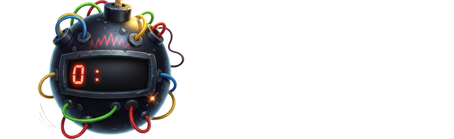
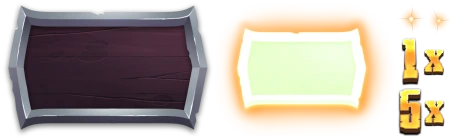
ui

diff --git a/apps/scatter/src/components/MultiplierBoard.svelte b/apps/scatter/src/components/MultiplierBoard.svelte
@@ -93,18 +93,25 @@
 
 	// Function to animate backdrop scale in 4 steps with proper typing
 	const animateBackdrop = async (bomb: BombType): Promise<void> => {
-		const scaleSteps = [0.4, 0.9, 1.3, 2]; // 4 scaling steps
-		const stepDuration = 350; // ms per step
-		
+		const frameCount = 15;
+		const startScale = 0.5;
+		const endScale = 2;
+		const stepDuration = 50; // ms per frame for a faster animation
+
+		// Generate 15 scale steps from 0.5 to 2
+		const scaleSteps = Array.from({ length: frameCount }, (_, i) =>
+			startScale + ((endScale - startScale) * i) / (frameCount - 1),
+		);
+
 		bomb.showBackdrop = true;
-		
+
 		for (const scale of scaleSteps) {
 			bomb.backdropScale = scale;
 			await waitForTimeout(stepDuration);
 		}
-		
+
 		// Small pause before starting tick animation
-		await waitForTimeout(200);
+		await waitForTimeout(100);
 		bomb.startTicking = true;
 	};
 
